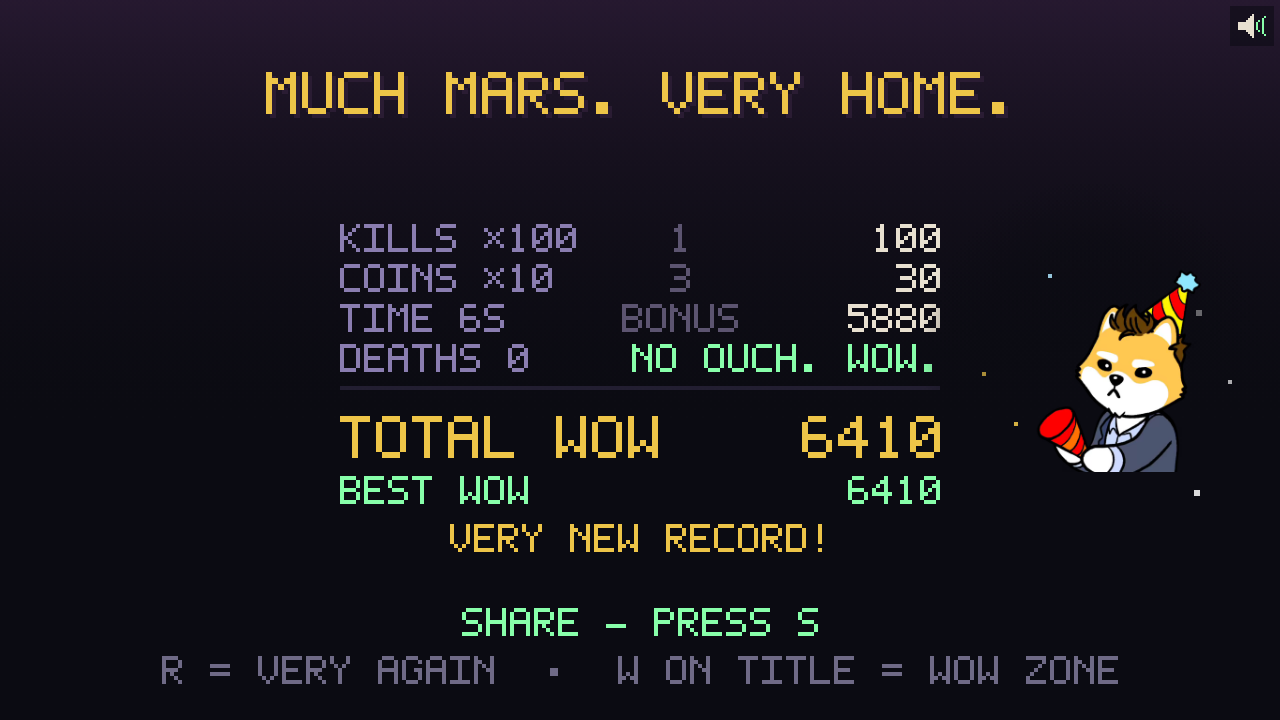
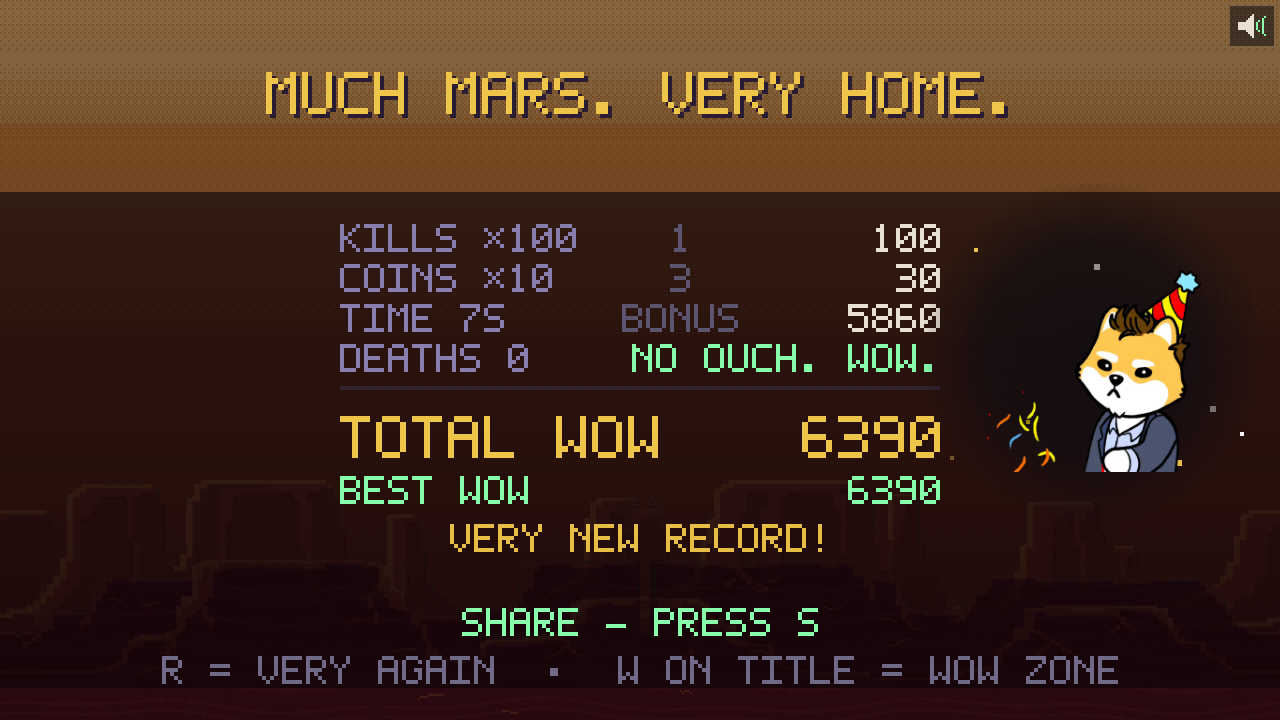
end screens: the dusk follows the overhaul
win and wowend trade the pre-overhaul purple-dark backdrop for the
production world's late afternoon: sky + mesa + rock strips from the
atlas drawn dimmed under a dusk wash, tally on a dark plate. wowend
keeps its red shift so the two outcomes stay unmistakable. audition
gets the same-family page black. media/win.png reshot from a real win.

diff --git a/web/game/scenes/win.js b/web/game/scenes/win.js
@@ -31,6 +31,16 @@ function softPlate(ctx, cx, cy, r) {
   ctx.fillRect(cx - r, cy - r, r * 2, r * 2);
 }
 
+// Backdrop strip: one untrimmed full-width atlas cell (sky/mesas/rocks),
+// pinned by its top edge. Same direct source math as play.js's band() — the
+// production strips are authored 640 wide, so at rest there is no seam to
+// stitch. Duplicated in wowend.js under the softPlate rule above: four lines,
+// and the two scenes share no other geometry.
+function strip(ctx, atlas, name, dy) {
+  const a = atlas.anims[name], f = atlas.frames[a.frames[0]];
+  ctx.drawImage(atlas.img, f.x, f.y, f.w, f.h, f.ox, dy + f.oy, f.w, f.h);
+}
+
 // Sparkle emitter: eight motes on lazy elliptical orbits around the sticker.
 // Phases/radii/rates are a fixed table rather than Math.random — the reward
 // screen should look the same in every screenshot, and "random" here would buy
@@ -63,7 +73,7 @@ function makeConfetti() {
 }
 const CONFETTI_G = 520;                       // px/s^2
 
-export function makeWin({ breakdown, best, input, go, sfx, tapNeed }) {
+export function makeWin({ atlas, breakdown, best, input, go, sfx, tapNeed }) {
   const { kills, coins, deaths, timeS, timeBonus, score } = breakdown;
   // main.js resolves `best` to max(previous, this run) before building us, so a
   // record is "we ARE the best". An exact tie with a previous best reads as a
@@ -155,11 +165,23 @@ export function makeWin({ breakdown, best, input, go, sfx, tapNeed }) {
     },
 
     render(ctx) {
-      ctx.fillStyle = '#0b0b12'; ctx.fillRect(0, 0, VW, VH);
+      // Late-afternoon Mars, same planet the run just crossed: the production
+      // sky and skyline drawn dimmed under a dusk wash (palette #16040f
+      // family), with the tally on a dark plate. The backdrop is scenery, not
+      // content — it stays quiet so the numbers stay the loudest thing here.
+      ctx.fillStyle = '#16040f'; ctx.fillRect(0, 0, VW, VH);
+      ctx.globalAlpha = 0.72;
+      strip(ctx, atlas, 'par_stars', 0);            // the gauntlet's sunset sky
+      strip(ctx, atlas, 'par_mesas', VH - 120);
+      strip(ctx, atlas, 'par_rocks', VH - 80);
+      ctx.globalAlpha = 1;
       const g = ctx.createLinearGradient(0, 0, 0, VH);
-      g.addColorStop(0, 'rgba(60,36,72,0.55)'); g.addColorStop(0.6, 'rgba(11,11,18,0)');
-      g.addColorStop(1, 'rgba(11,11,18,0)');
+      g.addColorStop(0, 'rgba(22,4,15,0.30)'); g.addColorStop(1, 'rgba(22,4,15,0.66)');
       ctx.fillStyle = g; ctx.fillRect(0, 0, VW, VH);   // full height: a short rect leaves a seam
+      // The plate the tally sits on: full-width, same page-black family as the
+      // title's legend band, spanning the ledger through the hint line.
+      ctx.fillStyle = 'rgba(11,4,8,0.62)';
+      ctx.fillRect(0, 96, VW, 248);
 
       drawTextShadow(ctx, 'MUCH MARS. VERY HOME.', VW / 2, 36,
                      { align: 'center', scale: 3 }, '#eec548', '#2a1c33');

diff --git a/web/game/scenes/wowend.js b/web/game/scenes/wowend.js
@@ -11,7 +11,14 @@ import { makeSharePrompt, shareTapBand } from '../shareui.js';
 
 const VW = 640, VH = 360;
 
-export function makeWowEnd({ breakdown, best, input, go, sfx, tapNeed }) {
+// Same strip helper as win.js — duplicated rather than promoted for the same
+// reason its softPlate is: four lines, no other shared geometry.
+function strip(ctx, atlas, name, dy) {
+  const a = atlas.anims[name], f = atlas.frames[a.frames[0]];
+  ctx.drawImage(atlas.img, f.x, f.y, f.w, f.h, f.ox, dy + f.oy, f.w, f.h);
+}
+
+export function makeWowEnd({ atlas, breakdown, best, input, go, sfx, tapNeed }) {
   const { score, kills, coins, timeS, chunks, seed } = breakdown;
   // Ties count as records, same call win.js makes and for the same reason:
   // matching your own best still earns the line, and the alternative is a
@@ -56,13 +63,23 @@ export function makeWowEnd({ breakdown, best, input, go, sfx, tapNeed }) {
     },
 
     render(ctx) {
-      ctx.fillStyle = '#0b0b12'; ctx.fillRect(0, 0, VW, VH);
-      // Red-shifted wash instead of win.js's purple: same shape of screen,
-      // unmistakably the other outcome at a glance.
+      // The zone's own dusk, dimmed the same way win.js dims the gauntlet's:
+      // this screen and that one are the same game, different outcome.
+      ctx.fillStyle = '#16040f'; ctx.fillRect(0, 0, VW, VH);
+      ctx.globalAlpha = 0.72;
+      strip(ctx, atlas, 'sky_wow', 0);              // the zone's own sky
+      strip(ctx, atlas, 'par_mesas', VH - 120);
+      strip(ctx, atlas, 'par_rocks', VH - 80);
+      ctx.globalAlpha = 1;
+      // Red-shifted wash (palette #70140d) instead of win.js's plain dusk:
+      // same shape of screen, unmistakably the other outcome at a glance.
       const g = ctx.createLinearGradient(0, 0, 0, VH);
-      g.addColorStop(0, 'rgba(90,26,32,0.55)'); g.addColorStop(0.6, 'rgba(11,11,18,0)');
-      g.addColorStop(1, 'rgba(11,11,18,0)');
+      g.addColorStop(0, 'rgba(112,20,13,0.42)'); g.addColorStop(0.55, 'rgba(22,4,15,0.42)');
+      g.addColorStop(1, 'rgba(22,4,15,0.66)');
       ctx.fillStyle = g; ctx.fillRect(0, 0, VW, VH);
+      // Same tally plate as win.js, pulled up to also carry the subtitle line.
+      ctx.fillStyle = 'rgba(11,4,8,0.62)';
+      ctx.fillRect(0, 60, VW, 284);
 
       drawTextShadow(ctx, 'WOW. U DED.', VW / 2, 36,
                      { align: 'center', scale: 3 }, '#e2413f', '#2a1c33');

diff --git a/web/main.js b/web/main.js
@@ -469,7 +469,7 @@ async function boot() {
     if (!save.data.wowUnlocked) save.patch({ wowUnlocked: true });
     // Fanfare lives here rather than in win.js for the same reason the best
     // score does: the win scene stays a pure layout of numbers it was handed.
-    return makeWin({ breakdown, best: Math.max(prevBest, breakdown.score), input, go, sfx,
+    return makeWin({ atlas, breakdown, best: Math.max(prevBest, breakdown.score), input, go, sfx,
                      tapNeed });
   };
 
@@ -480,7 +480,7 @@ async function boot() {
   scenes.wowend = (breakdown) => {
     const prevBest = save.data.best.wow;
     if (breakdown.score > prevBest) save.patch({ best: { wow: breakdown.score } });
-    return makeWowEnd({ breakdown, best: Math.max(prevBest, breakdown.score),
+    return makeWowEnd({ atlas, breakdown, best: Math.max(prevBest, breakdown.score),
                         input, go, sfx, tapNeed });
   };
 

diff --git a/web/game/scenes/audition.js b/web/game/scenes/audition.js
@@ -115,10 +115,13 @@ export function makeAudition({ input, save, sfx, go, touchUI, tapNeed }) {
     },
 
     render(ctx) {
-      ctx.fillStyle = '#0b0b12'; ctx.fillRect(0, 0, VW, VH);
+      // Page-black in the production dusk family (palette #16040f), with a
+      // warm ember wash up top where the old purple one sat — the utility
+      // screen keeps its quiet dark ground, on the new planet's palette.
+      ctx.fillStyle = '#16040f'; ctx.fillRect(0, 0, VW, VH);
       const g = ctx.createLinearGradient(0, 0, 0, VH);
-      g.addColorStop(0, 'rgba(60,36,72,0.55)'); g.addColorStop(0.6, 'rgba(11,11,18,0)');
-      g.addColorStop(1, 'rgba(11,11,18,0)');
+      g.addColorStop(0, 'rgba(125,49,24,0.35)'); g.addColorStop(0.6, 'rgba(22,4,15,0)');
+      g.addColorStop(1, 'rgba(22,4,15,0)');
       ctx.fillStyle = g; ctx.fillRect(0, 0, VW, VH);
 
       drawTextShadow(ctx, 'SUCH SOUND CHECK', VW / 2, 12,
